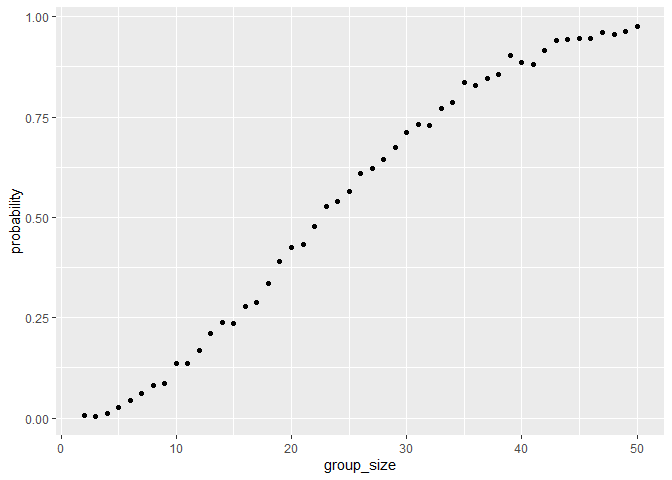
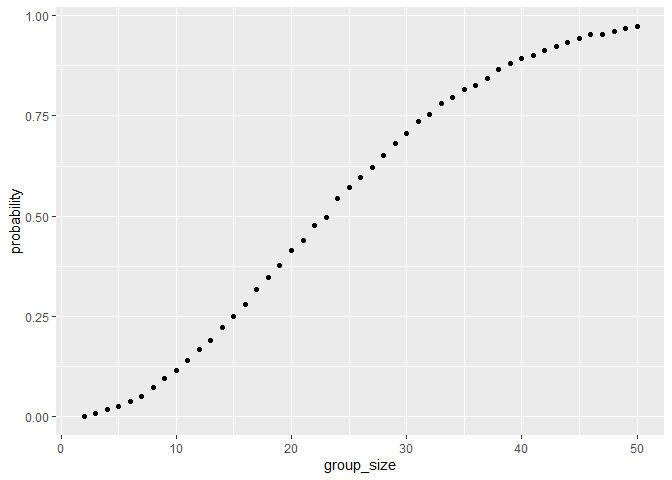
Spaghetti plot for problem 2. Fixed number of simulations for problem 1 to 10000

diff --git a/p8105_hw5_jem2315.md b/p8105_hw5_jem2315.md
@@ -35,7 +35,7 @@ birthday = tibble(
 ) |> 
   mutate(
     probability = 
-      map(group_size, ~mean(replicate(1000, birthday_prob(.x))) 
+      map(group_size, ~mean(replicate(10000, birthday_prob(.x))) 
   ) |> unlist()
 )
 
@@ -46,19 +46,17 @@ birthday |>
 
 ![](p8105_hw5_jem2315_files/figure-gfm/unnamed-chunk-2-1.png)<!-- -->
 
+The plot above describes the relationship between the size of a group of
+randomly selected individuals and the probability that there are at
+least 2 people within that group that will share a birthday. The plot
+was built using a function that sampled n between 1 and 365 days for a
+group of x size, and returns whether there are duplicate values or not,
+then simulating this function over 10000 times for group sizes between 2
+and 50 individuals. The resulting plot shows a sigmoid (s-shaped) curve
+where as group size increases, the probability of 2 or more people
+having the same birthday increases and levels off at the high end.
+
 ## Problem 2
-
-Create a tidy dataframe containing data from all participants, including
-the subject ID, arm, and observations over time:
-
-Start with a dataframe containing all file names; the list.files
-function will help Iterate over file names and read in data for each
-subject using purrr::map and saving the result as a new variable in the
-dataframe Tidy the result; manipulate file names to include control arm
-and subject ID, make sure weekly observations are “tidy”, and do any
-other tidying that’s necessary Make a spaghetti plot showing
-observations on each subject over time, and comment on differences
-between groups
 
 ``` r
 subject_files = tibble(
@@ -82,10 +80,19 @@ subject_files = tibble(
     values_to = "observation"
   ) |>
   mutate(
-  week = as.numeric(str_replace(week, "week_", ""))
+  week = as.numeric(str_replace(week, "week_", "")),
+  subject_id = paste(arm, subject_id, sep = "_")
   ) |>
   select(subject_id, arm, week, observation)
 
-#subject_files |> 
- # ggplot(aes(x = ))
+subject_files |> 
+  ggplot(aes(x = week, y = observation, group = subject_id, color = arm)) + 
+  geom_line() + 
+  labs(x = "week", y = "Observations")
 ```
+
+![](p8105_hw5_jem2315_files/figure-gfm/unnamed-chunk-3-1.png)<!-- -->
+
+The spaghetti plot above shows observations on each subject over time
+between each arm of treatment (experimental vs control). Based on the
+plot,
